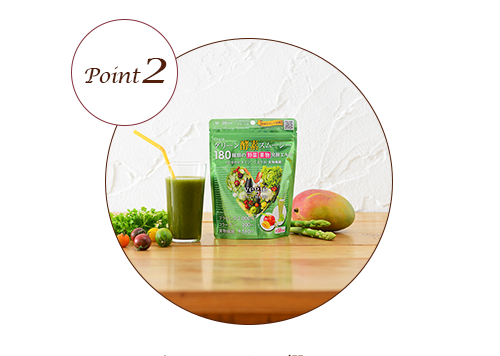
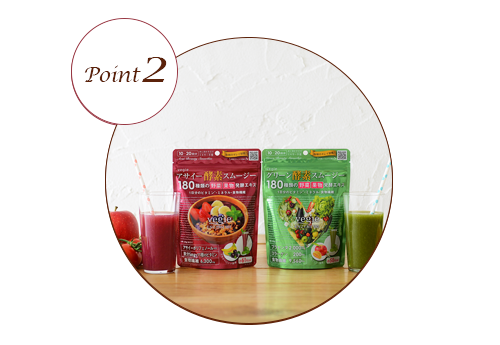
oct.11th Fix

diff --git a/index.html b/index.html
@@ -2,7 +2,7 @@
 <html>
 
 <head>
-    <title>ベジエグリーン酵素スムージー</title>
+    <title>ベジエグリーン酵素スムージー、アサイー酵素スムージー</title>
     <meta charset="utf-8" />
     <meta name="viewport" content="width=device-width, initial-scale=1" />
     <!--[if lte IE 8]><script src="assets/js/ie/html5shiv.js"></script><![endif]-->
@@ -61,8 +61,8 @@
                             <br>
                             <span class="emphasis">
                         朝食をとらない人は<br>
-                        野菜の摂取量も少ない<br>
-                        </span> と言われています。 朝食は、
+                        野菜の摂取量も少ない。<br>
+                        </span>  朝食は、
                             <br> 脳と体を目覚めさせるためには
                             <br> 必要不可欠なもの。
                             <br>
@@ -115,7 +115,7 @@
                 <p class="ft120">
                     朝ごはんを抜く従業員が沢山いることを経営者のみなさんは知っていますか？
                     <br>
-                    <br> 朝食は抜いても大丈夫！そんなことはありません。健康だけでなく美容にも良いベジエのグリーン酵素スムージー。
+                    <br> 朝食は抜いても大丈夫！そんなことはありません。健康だけでなく美容にも良いベジエのグリーン酵素スムージー、アサイー酵素スムージー。
                     <br><br>生きたままの酵素が入ったベジエには、 腸内環境を整える作用があります。腸は第二の脳とも言われるとても大切な器官。
                     <br>
                     <br> 腸から体を整えて従業員の健康 仕事のパフォーマンスを向上させましょう。
@@ -143,7 +143,7 @@
                 </header>
                 <ul class="default">
                     <li class="disable"> <i class="fa fa-check fa-lg" aria-hidden="true"></i>会社の経営者様。</li>
-                    <li class="disable"> <i class="fa fa-check fa-lg" aria-hidden="true"></i>1ヶ月間、ベジエグリーン酵素スムージーをお試しいただき、 SNSアカウントでの拡散、感想アンケートにお答えいただける方。
+                    <li class="disable"> <i class="fa fa-check fa-lg" aria-hidden="true"></i>1ヶ月間、ベジエグリーン酵素スムージー、アサイー酵素スムージーをお試しいただき、 SNSアカウントでの拡散、感想アンケートにお答えいただける方。
                     </li>
                     <li class="disable"> <i class="fa fa-check fa-lg" aria-hidden="true"></i>SNSアカウントをお持ちの方(Facebook、Twitter、Instagram)</li>
                     <li class="disable"> <i class="fa fa-check fa-lg" aria-hidden="true"></i>美容、健康、食事等に興味のある方</li>
@@ -151,13 +151,14 @@
                     </li>
                 </ul>
             </section>
-            <!-- 賞品-->
+            <!-- 商品-->
             <section class="apply-list">
                 <header class="rules">
-                    <h2><i class="fa fa-circle-o" aria-hidden="true"></i>賞品</h2>
+                    <h2><i class="fa fa-circle-o" aria-hidden="true"></i>商品</h2>
                 </header>
                 <ul class="default">
-                    <li class="disable">ベジエグリーン酵素スムージー （１袋×20回分）× 50袋</li>
+                    <li class="disable">ベジエグリーン酵素スムージー、アサイー酵素スムージーを合わせて 30袋</li>
+                    
                 </ul>
             </section>
             <!-- 抽選発表-->
@@ -299,7 +300,7 @@
             <ul class="default">
                 <li class="disable">
                     参加者募集期間:2017年10月13日(金)〜10/27(金)
-                    <br> 本キャンペーン概要:ベジエ(グリーン酵素スムージー)のご試飲
+                    <br> 本キャンペーン概要:ベジエ(グリーン酵素スムージー、アサイー酵素スムージー)のご試飲
                     <br> 参加者:参加者は以下の事項に該当する方に限定させていただきますので、
                     <br> あらかじめご了承ください。
                     <br>
@@ -370,7 +371,7 @@
                     <br> 今後はランチをこちらに切り替えて（今すごい食べちゃってるので・・）、 置き換えダイエットにも挑戦してみたいと思っています。
                     <br>
                     <br> 今まで飲んでいたスムージーよりもお値段がお手頃で、 ネットや近くの薬局などでも 入手しやすいのも良いと思いました。 今後はこちらをリピートしたいと思います～。
-                    <br>(30歳代　女性）
+                    <br>(34歳 女性）
                 </li>
                 <!--voice2-->
                 <li class="disable" style="background-color:#faf7f7; padding:3em 2em ;">
@@ -379,7 +380,7 @@
                     <br> 牛乳で割って飲んでるからか飲みやすくて 朝ごはんとして愛用してます♪ 2週間続けているんですけど、
                     <br>
                     <br> 最近お通じが良くなったのはこの子のお陰かな？
-                    <br>(20歳代　女性）
+                    <br>(23歳 女性）
                 </li>
                 <!--voice3-->
                 <li class="disable" style="background-color:#faf7f7; padding:3em 2em ;">
@@ -390,7 +391,7 @@
                     <br> 溶け残りも無く　特殊パウダー製法なので 飲んだ後のグラスもお水ですすげば簡単に洗えます。
                     <br>
                     <br> 置き換えするのにも良いですが日常の野菜不足を補え ビタミン、ミネラル、食物繊維コラーゲン、プラセンタまで 取れるので2,036円(税込)で10日分 簡単に飲めるのとサプリも不要だと考えるとお得です。
-                    <br>(40歳代　女性）
+                    <br>(41歳 女性）
                 </li>
             </ul>
         </div>
@@ -447,7 +448,7 @@
                     <img src="images/col-3-img.png" width="100%">
                 </center>
                 <li class="disable">
-                    健康だけでなく美容にも良い ベジエのグリーン酵素スムージー。 しっかりと栄養バランスの 取れた朝食を取ることで 仕事の効率アップにも繋がります。
+                    健康だけでなく美容にも良い ベジエのグリーン酵素スムージー、アサイー酵素スムージー。 しっかりと栄養バランスの 取れた朝食を取ることで 仕事の効率アップにも繋がります。
                     </span>
                 </li>
             </ul>
@@ -472,7 +473,7 @@
                 </header>
                 <ul class="default">
                     <li class="disable"> <i class="fa fa-check fa-lg" aria-hidden="true"></i>会社の経営者様。</li>
-                    <li class="disable"> <i class="fa fa-check fa-lg" aria-hidden="true"></i>1ヶ月間、ベジエグリーン酵素スムージーをお試しいただき、 SNSアカウントでの拡散、感想アンケートにお答えいただける方。
+                    <li class="disable"> <i class="fa fa-check fa-lg" aria-hidden="true"></i>1ヶ月間、ベジエグリーン酵素スムージー、、アサイー酵素スムージーをお試しいただき、 SNSアカウントでの拡散、感想アンケートにお答えいただける方。
                     </li>
                     <li class="disable"> <i class="fa fa-check fa-lg" aria-hidden="true"></i>SNSアカウントをお持ちの方(Facebook、Twitter、Instagram)</li>
                     <li class="disable"> <i class="fa fa-check fa-lg" aria-hidden="true"></i>美容、健康、食事等に興味のある方</li>
@@ -480,13 +481,13 @@
                     </li>
                 </ul>
             </section>
-            <!-- 賞品-->
+            <!-- 商品-->
             <section class="apply-list">
                 <header class="rules">
-                    <h2><i class="fa fa-circle-o" aria-hidden="true"></i>賞品</h2>
+                    <h2><i class="fa fa-circle-o" aria-hidden="true"></i>商品</h2>
                 </header>
                 <ul class="default">
-                    <li class="disable">ベジエグリーン酵素スムージー （１袋×20回分）× 50袋</li>
+                    <li class="disable">ベジエグリーン酵素スムージー、アサイー酵素スムージーを合わせて 30袋</li>
                 </ul>
             </section>
             <!-- 抽選発表-->
@@ -629,7 +630,7 @@
             <ul class="default">
                 <li class="disable">
                     参加者募集期間:2017年10月13日(金)〜10/27(金)
-                    <br> 本キャンペーン概要:ベジエ(グリーン酵素スムージー)のご試飲
+                    <br> 本キャンペーン概要:ベジエ(グリーン酵素スムージー、アサイー酵素スムージー)のご試飲
                     <br> 参加者:参加者は以下の事項に該当する方に限定させていただきますので、
                     <br> あらかじめご了承ください。
                     <br>
@@ -708,13 +709,13 @@
                     </li>
                 </ul>
             </section>
-            <!-- 賞品-->
+            <!-- 商品-->
             <section class="apply-list">
                 <header class="rules">
-                    <h2><i class="fa fa-circle-o" aria-hidden="true"></i>賞品</h2>
+                    <h2><i class="fa fa-circle-o" aria-hidden="true"></i>商品</h2>
                 </header>
                 <ul class="default">
-                    <li class="disable">ベジエグリーン酵素スムージー （１袋×20回分）× 50袋</li>
+                    <li class="disable">ベジエグリーン酵素スムージー、アサイー酵素スムージーを合わせて 30袋</li>
                 </ul>
             </section>
             <!-- 抽選発表-->
@@ -857,7 +858,7 @@
             <ul class="default">
                 <li class="disable">
                     参加者募集期間:2017年10月13日(金)〜10/27(金)
-                    <br> 本キャンペーン概要:ベジエ(グリーン酵素スムージー)のご試飲
+                    <br> 本キャンペーン概要:ベジエ(グリーン酵素スムージー、アサイー酵素スムージー)のご試飲
                     <br> 参加者:参加者は以下の事項に該当する方に限定させていただきますので、
                     <br> あらかじめご了承ください。
                     <br>
